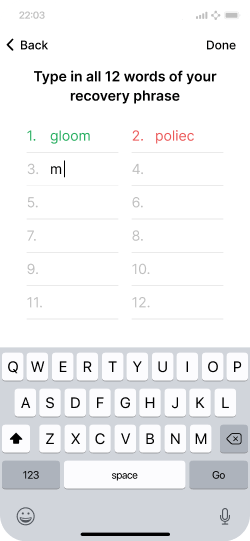
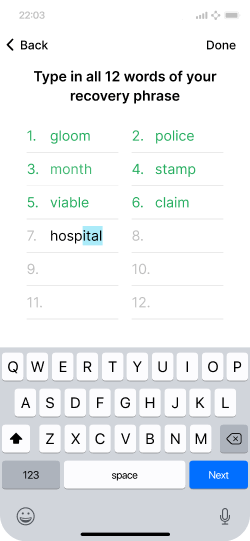
Updates to autocomplete

diff --git a/guide/daily-spending-wallet/backup-and-recovery/recovery.md b/guide/daily-spending-wallet/backup-and-recovery/recovery.md
@@ -166,12 +166,23 @@ This involves a few more steps, but should work just as well as the auto cloud b
 %}
 
 {% include picture.html
+   image = "/assets/images/guide/daily-spending-wallet/backup-and-recovery/recovery/restore-manual-recovery-phrase-error.png"
+   retina = "/assets/images/guide/daily-spending-wallet/backup-and-recovery/recovery/restore-manual-recovery-phrase-error@2x.png"
+   modalImage="/assets/images/guide/daily-spending-wallet/backup-and-recovery/recovery/restore-manual-recovery-phrase-error@2x.png"
+   layout = "shadow"
+   caption = "User enters their recovery phrase. The app can notify them if a word is incorrect before they have finished typing it."
+   alt-text = "Screen showing an incorrectly typed word highlighed in red."
+   width = 250
+   height = 541
+%}
+
+{% include picture.html
    image = "/assets/images/guide/daily-spending-wallet/backup-and-recovery/recovery/restore-manual-recovery-phrase-progress.png"
    retina = "/assets/images/guide/daily-spending-wallet/backup-and-recovery/recovery/restore-manual-recovery-phrase-progress@2x.png"
    modalImage="/assets/images/guide/daily-spending-wallet/backup-and-recovery/recovery/restore-manual-recovery-phrase-progress@2x.png"
    layout = "shadow"
-   caption = "User enters their recovery phrase. The app notifies them if they have typed a word incorrectly."
-   alt-text = "Screen showing an incorrectly typed word highlighed in red."
+   caption = "User enters their recovery phrase. The app can autocomplete words for the user."
+   alt-text = "Screen showing an incorrectly typed word highlighted in red."
    width = 250
    height = 541
 %}
@@ -222,6 +233,11 @@ This involves a few more steps, but should work just as well as the auto cloud b
 
 </div>
 
+{% include tip/open.html color="green" icon="check" label="Use autocomplete" %}
+
+This wallet makes the recovery process easier for the user by autocompleting the words of their recovery phrase as they type. Since recovery phrases are comprised of words from a predefined dictionary of 2,048 words, the app is able usually able to autocomplete or detect a typo with only 3 or 4 letters typed.
+
+{% include tip/close.html %}
 
 ## Other situations
 
